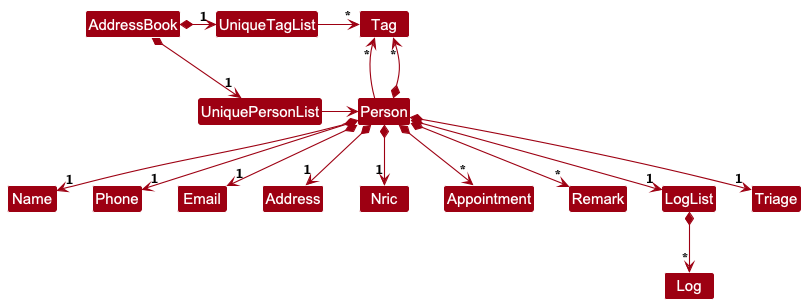
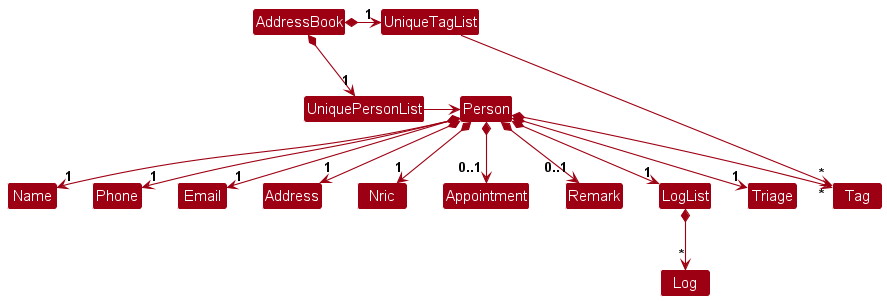
Update UML diagrams in DG

diff --git a/docs/DeveloperGuide.md b/docs/DeveloperGuide.md
@@ -591,6 +591,13 @@ Priorities: High (must have) - `* * *`, Medium (nice to have) - `* *`, Low (unli
 
 --------------------------------------------------------------------------------------------------------------------
 
+## **Appendix: Planned Enhancements**
+
+Team Size: 5
+
+1. 
+--------------------------------------------------------------------------------------------------------------------
+
 ## **Appendix: Instructions for manual testing**
 
 Given below are instructions to test the app manually.
